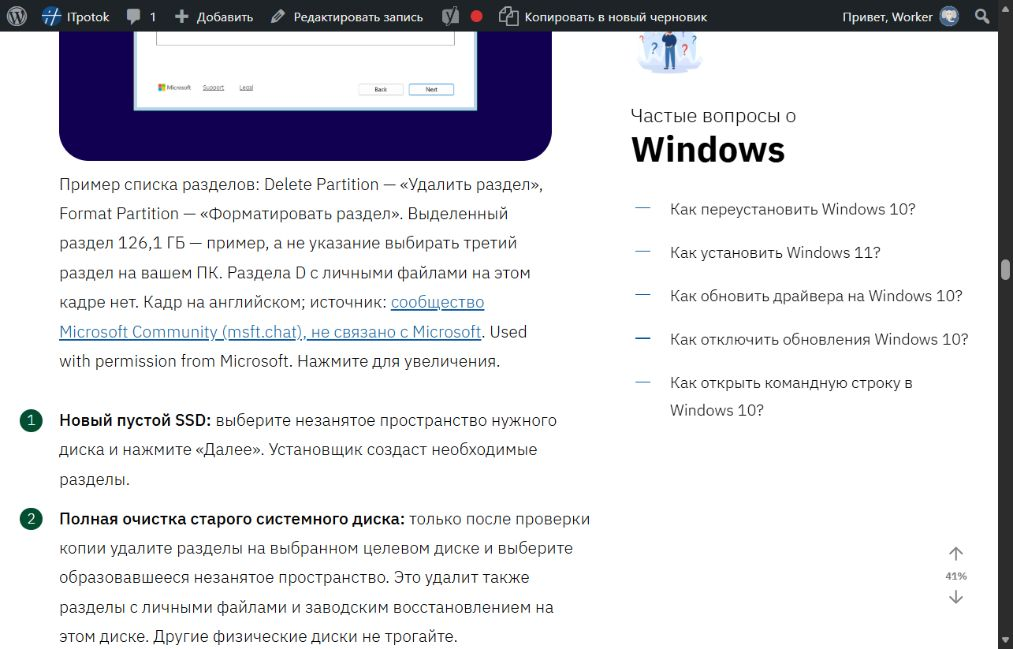
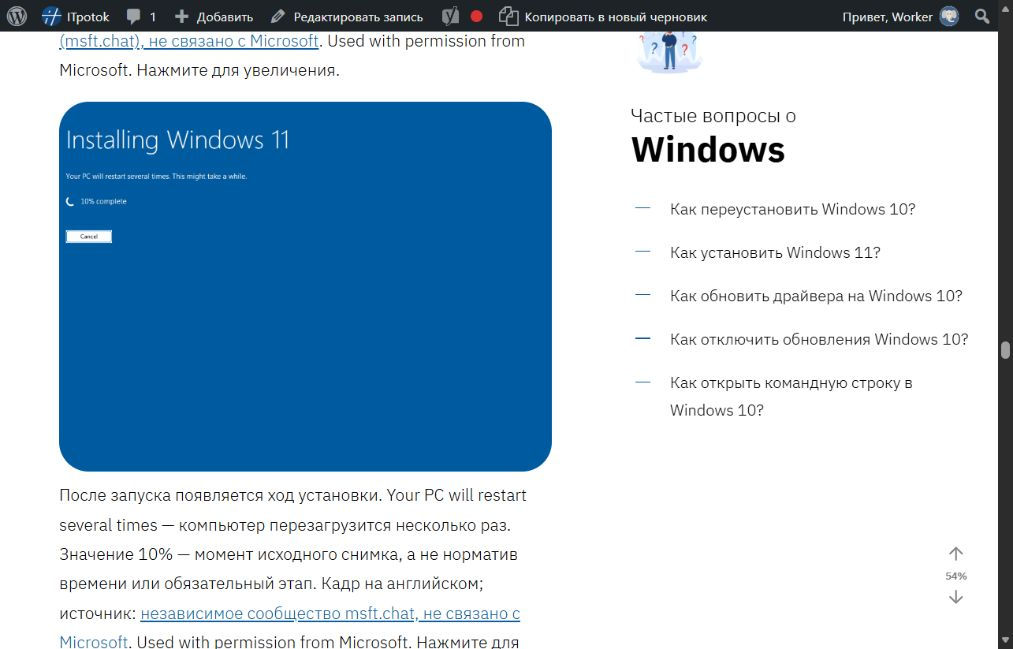
Expand Windows 11 installation walkthrough through first desktop

diff --git a/install-windows-11/article.html b/install-windows-11/article.html
@@ -27,25 +27,31 @@
 </ol>
 <p>Microsoft описывает подготовку носителя в <a href="https://support.microsoft.com/en-us/windows/deployment/install-upgrade/create-installation-media-for-windows" rel="nofollow">отдельной справке</a>. Если загрузка недоступна, не считайте это доказательством, что утилита обязательно заработает из другой сети. Попробуйте позже или подготовьте официальный носитель на другом доступном ПК. Не подменяйте образ случайной «сборкой» и не отключайте защиту ради её запуска.</p>
 <div id="clean" style="scroll-margin-top:90px;"></div><h2>Чистая установка с флешки на новый или очищаемый диск</h2>
-<h3>Загрузитесь с USB в режиме UEFI</h3>
+<p>Ниже — последовательность от запуска флешки до первого рабочего стола. Семь кадров показывают современный установщик на английском; рядом переведены нужные команды. В русскоязычном образе подписи будут русскими, а состав и порядок некоторых экранов зависят от версии носителя.</p>
+<h3>1. Запустите установщик с флешки</h3>
 <ol>
 <li>Подключите подготовленную флешку и выключите ПК.</li>
 <li>Включите компьютер и сразу несколько раз нажмите клавишу меню выбора загрузочного устройства — Boot Menu. Клавиша зависит от модели; проверьте руководство производителя. Часто используется F12 или Esc.</li>
 <li>Выберите флешку; если есть два варианта, используйте вариант UEFI. Если снова открылась старая Windows, загрузка с USB не состоялась.</li>
-<li>В установщике пройдите отдельные экраны языка и раскладки клавиатуры. В современном интерфейсе выберите установку Windows 11 и прочитайте предупреждение об удалении. В старом интерфейсе нужный сценарий может называться «Выборочная установка».</li>
+<li>Дождитесь окна установки Windows 11. Если появляется предложение нажать любую клавишу для загрузки с USB, сделайте это при первом запуске. Меню Boot Menu лишь выбирает устройство для этого запуска; его открытие само по себе не удаляет данные.</li>
 </ol>
+<h3>2. Выберите язык, формат времени и клавиатуру</h3>
+<ol><li>На первом экране проверьте «Устанавливаемый язык» и формат времени и денежных единиц. Для русской системы используйте официальный русскоязычный носитель. Если нужного языка нет в списке, не продолжайте с неподходящим образом: подготовьте нужный носитель.</li><li>Нажмите «Далее». На следующем экране выберите основную раскладку клавиатуры и снова нажмите «Далее». Дополнительную раскладку можно добавить при первоначальной настройке.</li></ol>
+<figure><a href="https://raw.githubusercontent.com/Microsoft-community/Community-website/master/src/wiki/img/installing-windows/chooselanguage.png" target="_blank" rel="nofollow noopener noreferrer"><img src="https://raw.githubusercontent.com/Microsoft-community/Community-website/master/src/wiki/img/installing-windows/chooselanguage.png" alt="Windows 11 Setup: Select language settings, списки языка установки и формата времени, кнопка Next" width="1024" height="768" style="max-width:100%;height:auto;" /></a><figcaption>Первый экран: Language to install — язык установки, Time and currency format — формат времени и денежных единиц. Next — «Далее». На кадре выбран английский язык; он не демонстрирует русский образ. Кадр на английском; источник: <a href="https://msft.chat/wiki/installing-windows" rel="nofollow">независимое сообщество msft.chat, не связано с Microsoft</a>. Used with permission from Microsoft. Нажмите для увеличения.</figcaption></figure>
+<h3>3. Выберите установку Windows 11</h3>
+<p>В современном мастере отметьте «Установить Windows 11». Прочитайте предупреждение и подтвердите согласие с удалением файлов, приложений и параметров только для выбранного вами сценария чистой установки. Затем нажмите «Далее». Пункт восстановления компьютера ведёт к инструментам восстановления, а не к этому процессу установки. В старом мастере встречаются кнопка «Установить» и позднее выбор «Выборочная: только установка Windows».</p>
 <figure><a href="https://support.microsoft.com/ru-ru/windows/media/installation-media-install-option.png" target="_blank" rel="nofollow noopener noreferrer"><img src="https://support.microsoft.com/ru-ru/windows/media/installation-media-install-option.png" alt="Англоязычный установщик Microsoft Windows 11: выбран Install Windows 11 и отмечено согласие с удалением файлов, приложений и параметров" width="712" height="557" style="max-width:100%;height:auto;" /></a><figcaption>Выбор установки с подтверждением удаления данных. Кадр Microsoft на английском: Install Windows 11 означает «Установить Windows 11». Источник: <a href="https://support.microsoft.com/ru-ru/windows/deployment/install-upgrade/reinstall-windows-with-the-installation-media" rel="nofollow">Microsoft Support</a>. Used with permission from Microsoft. Нажмите для увеличения.</figcaption></figure>
-<h3>Выберите редакцию Home или Pro и проверьте лицензию</h3>
+<h3>4. Укажите ключ и редакцию, примите условия</h3>
 <p>Если установщик спрашивает ключ, введите имеющийся ключ. При повторной установке той же редакции на устройстве с действующей цифровой лицензией можно выбрать «У меня нет ключа продукта». Это не даёт бесплатную лицензию новому компьютеру. Если ключ уже записан в прошивке, окно может не появиться.</p>
 <p>Если появился выбор редакции, отметьте ту, для которой у вас есть лицензия: Home и Pro не взаимозаменяемы при активации. Затем прочитайте условия лицензии и продолжите, если согласны. В зависимости от версии носителя порядок экранов может отличаться.</p>
 <figure><a href="https://raw.githubusercontent.com/Microsoft-community/Community-website/master/src/wiki/img/installing-windows/productkey.png" target="_blank" rel="nofollow noopener noreferrer"><img src="https://raw.githubusercontent.com/Microsoft-community/Community-website/master/src/wiki/img/installing-windows/productkey.png" alt="Установщик Windows 11: пустое поле ключа продукта и ссылка I don’t have a product key внизу слева" width="1024" height="768" style="max-width:100%;height:auto;" /></a><figcaption>Экран ключа: ссылка I don’t have a product key означает «У меня нет ключа продукта». Условия её использования описаны выше. Кадр на английском; источник: <a href="https://msft.chat/wiki/installing-windows" rel="nofollow">сообщество Microsoft Community (msft.chat), не связано с Microsoft</a>. Used with permission from Microsoft. Нажмите для увеличения.</figcaption></figure>
-<h3>Как выбрать диск и не удалить раздел с файлами</h3>
+<h3>5. Подготовьте место установки на нужном диске</h3>
 <p><strong>Перед удалением разделов определите физический диск.</strong> Сверьте его ёмкость и состав разделов с заранее записанными сведениями. Буквы C: и D: в установщике не являются надёжным ориентиром. Номер «Диск 0» тоже не доказывает, что перед вами нужный SSD. Если накопителей несколько и вы не уверены, отмените установку и уточните конфигурацию.</p>
 <figure><a href="https://raw.githubusercontent.com/Microsoft-community/Community-website/master/src/wiki/img/installing-windows/custompartitionmanager.png" target="_blank" rel="nofollow noopener noreferrer"><img src="https://raw.githubusercontent.com/Microsoft-community/Community-website/master/src/wiki/img/installing-windows/custompartitionmanager.png" alt="Установщик Windows 11: четыре раздела диска, выделен основной раздел 126,1 ГБ; команды Delete Partition и Format Partition" width="1024" height="768" style="max-width:100%;height:auto;" /></a><figcaption>Пример списка разделов: Delete Partition — «Удалить раздел», Format Partition — «Форматировать раздел». Выделенный раздел 126,1 ГБ — пример, а не указание выбирать третий раздел на вашем ПК. Раздела D с личными файлами на этом кадре нет. Кадр на английском; источник: <a href="https://msft.chat/wiki/installing-windows" rel="nofollow">сообщество Microsoft Community (msft.chat), не связано с Microsoft</a>. Used with permission from Microsoft. Нажмите для увеличения.</figcaption></figure>
 <ol>
 <li><strong>Новый пустой SSD:</strong> выберите незанятое пространство нужного диска и нажмите «Далее». Установщик создаст необходимые разделы.</li>
-<li><strong>Полная очистка старого системного диска:</strong> только после проверки копии удалите разделы на выбранном целевом диске и выберите образовавшееся незанятое пространство. Это удалит также разделы с личными файлами и заводским восстановлением на этом диске. Другие физические диски не трогайте.</li>
-<li>Проверьте итоговый экран и начните установку. После перезагрузок не запускайте установку с USB заново: выберите Windows Boot Manager внутреннего накопителя либо верните прежний порядок загрузки.</li>
+<li><strong>Полная очистка старого системного диска:</strong> только после проверки копии выделите первый раздел выбранного целевого диска, нажмите «Удалить раздел» и подтвердите предупреждение. Повторите для остальных разделов именно этого диска. В итоге должно остаться его незанятое пространство; выберите эту строку и нажмите «Далее». Это удалит также разделы с личными файлами и заводским восстановлением на этом диске. Другие физические диски не трогайте.</li>
+
 </ol>
 <figure><a href="https://raw.githubusercontent.com/Microsoft-community/Community-website/master/src/wiki/img/installing-windows/emptycustompartitionmanager.png" target="_blank" rel="nofollow noopener noreferrer"><img src="https://raw.githubusercontent.com/Microsoft-community/Community-website/master/src/wiki/img/installing-windows/emptycustompartitionmanager.png" alt="Установщик Windows 11: выбрано Disk 0 Unallocated Space объёмом 127 ГБ" width="1024" height="768" style="max-width:100%;height:auto;" /></a><figcaption>Так выглядит незанятое пространство: Unallocated Space — «Незанятое пространство». После полной очистки целевого диска выбирают его и нажимают Next («Далее»). Номер и объём на вашем ПК могут отличаться. Кадр на английском; источник: <a href="https://msft.chat/wiki/installing-windows" rel="nofollow">сообщество Microsoft Community (msft.chat), не связано с Microsoft</a>. Used with permission from Microsoft. Нажмите для увеличения.</figcaption></figure>
 <p><strong>Пример:</strong> на одном SSD находятся системный раздел C: и раздел D: с фотографиями. Если удалить все строки этого физического диска, исчезнут оба раздела. Если D: расположен на другом физическом накопителе, он не относится к очистке системного SSD. Именно поэтому сначала нужна карта дисков, а не ориентир по одной букве.</p>
@@ -57,14 +63,24 @@
 <li>Выберите подготовленный раздел Windows и продолжите. Если установщик не принимает его, требует изменить разметку или вы не можете уверенно различить разделы, остановитесь. Не переходите к удалению всех разделов ради обхода ошибки.</li>
 </ol>
 <p>Установка в старый раздел без форматирования — отдельный сценарий: поведение зависит от состояния диска и установщика. Папка <code>Windows.old</code>, даже если появилась, не сохраняет работоспособность старых приложений и не заменяет резервную копию. Для предсказуемой полной очистки используйте пустое пространство после удаления разделов целевого диска, как описано выше.</p>
+<h3>6. Проверьте итог и дождитесь установки</h3>
+<p>На экране готовности ещё раз прочитайте редакцию и выбранный режим сохранения. Для описанного сценария будет «Ничего не сохранять» (Keep nothing). Если вы хотели оставить программы, этот режим вам не подходит: вернитесь к способам переустановки из работающей Windows. Если всё верно, нажмите «Установить» (Install).</p>
+<p><strong>Удаление или форматирование разделов уже изменило диск.</strong> Возврат к предыдущему экрану и закрытие мастера не вернут стёртые файлы — даже если кнопку «Установить» вы ещё не нажали.</p>
 <figure><a href="https://raw.githubusercontent.com/Microsoft-community/Community-website/master/src/wiki/img/installing-windows/readytoinstall.png" target="_blank" rel="nofollow noopener noreferrer"><img src="https://raw.githubusercontent.com/Microsoft-community/Community-website/master/src/wiki/img/installing-windows/readytoinstall.png" alt="Итоговый экран Windows 11: Install Windows 11 Pro, Keep nothing и кнопка Install" width="1024" height="768" style="max-width:100%;height:auto;" /></a><figcaption>Перед запуском проверьте редакцию и режим: здесь Windows 11 Pro и Keep nothing («Ничего не сохранять»). Этот кадр показывает чистую установку, а не восстановление с сохранением приложений. Install — «Установить». Кадр на английском; источник: <a href="https://msft.chat/wiki/installing-windows" rel="nofollow">сообщество Microsoft Community (msft.chat), не связано с Microsoft</a>. Used with permission from Microsoft. Нажмите для увеличения.</figcaption></figure>
-<h3>Завершите первоначальную настройку</h3>
+<figure><a href="https://raw.githubusercontent.com/Microsoft-community/Community-website/master/src/wiki/img/installing-windows/installing.png" target="_blank" rel="nofollow noopener noreferrer"><img src="https://raw.githubusercontent.com/Microsoft-community/Community-website/master/src/wiki/img/installing-windows/installing.png" alt="Экран Installing Windows 11: выполнение 10 процентов, сообщение о нескольких перезагрузках" width="1024" height="768" style="max-width:100%;height:auto;" /></a><figcaption>После запуска появляется ход установки. Your PC will restart several times — компьютер перезагрузится несколько раз. Значение 10% — момент исходного снимка, а не норматив времени или обязательный этап. Кадр на английском; источник: <a href="https://msft.chat/wiki/installing-windows" rel="nofollow">независимое сообщество msft.chat, не связано с Microsoft</a>. Used with permission from Microsoft. Нажмите для увеличения.</figcaption></figure>
+<ol><li>Оставьте компьютер включённым и подключённым к питанию. Процент может меняться неравномерно; время зависит от накопителя, компьютера и обновлений. Не выключайте ПК, чтобы «ускорить» процесс.</li><li>Разрешите автоматические перезагрузки. После первого запуска с USB больше не нажимайте клавишу для повторной загрузки с флешки. Дальнейшая установка должна продолжиться с внутреннего накопителя.</li><li>Если снова появился первый экран языка установщика, не повторяйте удаление разделов. Перезапустите ПК и в Boot Menu выберите Windows Boot Manager внутреннего SSD. При необходимости верните загрузку с него на первое место по инструкции производителя.</li><li>Дождитесь экрана первоначальной настройки: выбора региона, клавиатуры или подключения к сети. Это означает, что вы перешли от установки файлов к настройке новой системы.</li></ol>
+<h3>7. Пройдите настройку до рабочего стола</h3>
+<p>Это отдельный мастер первого запуска (OOBE). По <a href="https://learn.microsoft.com/en-us/windows-hardware/customize/desktop/customize-oobe-in-windows-11" rel="nofollow">документации Microsoft</a>, экраны могут появляться в разном порядке, а часть — отсутствовать. Ориентируйтесь на вопрос текущего окна.</p>
 <ol>
-<li>Выберите свой регион и основную раскладку клавиатуры. Вторую раскладку добавьте при необходимости.</li>
-<li>Подключитесь к Wi-Fi или проводной сети. Для личной настройки Home и Pro подготовьте учётную запись Microsoft. Если сеть не определяется, используйте раздел ошибок ниже.</li>
-<li>Если предлагается восстановление из копии другого ПК, проверьте, какую копию выбираете. Для начала с чистыми настройками выбирайте настройку как нового устройства, если установщик предлагает такой вариант.</li>
-<li>Настройте способ входа и прочитайте параметры конфиденциальности. Дополнительные предложения сервисов выбирайте по своим потребностям.</li>
-<li>Дождитесь рабочего стола, затем выполните проверку в конце руководства. Окончание мастера ещё не подтверждает исправность всех устройств и активацию.</li>
+<li><strong>Регион.</strong> Выберите страну или регион, в котором используете компьютер, и подтвердите выбор. От этого зависят региональные форматы и доступность некоторых служб.</li>
+<li><strong>Клавиатура.</strong> Подтвердите основную раскладку. На вопрос о второй раскладке добавьте нужную или пропустите этот шаг. Язык интерфейса и раскладка — разные настройки.</li>
+<li><strong>Сеть.</strong> Для Wi-Fi выберите свою сеть, нажмите подключение и введите её пароль; для Ethernet подключите кабель. Это пароль сети, а не учётной записи Microsoft. Если сетей нет в списке, перейдите к разделу ошибок ниже. Windows может скачать обновления и снова перезагрузиться.</li>
+<li><strong>Имя и назначение устройства.</strong> Если предлагается назвать ПК, задайте понятное имя. На личном компьютере при выборе между личным использованием и работой или учёбой выбирайте личную настройку. Для корпоративного устройства следуйте правилам администратора.</li>
+<li><strong>Учётная запись.</strong> Для личной настройки Windows 11 Home и Pro подготовьте учётную запись Microsoft: войдите с её адресом и паролем либо создайте её через предложенный мастер. При включённой дополнительной проверке подтвердите вход доступным способом. Не путайте этот этап с вводом ключа продукта: это разные данные.</li>
+<li><strong>Восстановление копии.</strong> Если после входа предлагается восстановить настройки прежнего ПК, проверьте имя устройства и дату копии. Для начала с новыми настройками выберите настройку как нового устройства, если этот вариант доступен. Восстановление облачной копии не заменяет сохранённые отдельно локальные файлы.</li>
+<li><strong>Windows Hello.</strong> Создайте PIN для входа на этот компьютер. Если предлагаются отпечаток или распознавание лица, настройте их по желанию и возможностям устройства. PIN не является ключом активации Windows.</li>
+<li><strong>Конфиденциальность и предложения.</strong> Прочитайте каждый переключатель: расположение, диагностика и другие параметры. Выберите подходящие вам значения и подтвердите. На экранах OneDrive и дополнительных сервисов проверьте, что именно включаете; дополнительные подписки для самой установки не нужны.</li>
+<li><strong>Завершение.</strong> Дождитесь окончания подготовки и появления рабочего стола. Теперь можно открыть «Пуск» и «Параметры». После чистой установки прежние приложения нужно установить заново, а файлы вернуть из копии. Проверку активации, обновлений и устройств выполните по разделу в конце руководства.</li>
 </ol>
 <div id="repair-update" style="scroll-margin-top:90px;"></div><h2>Переустановка через Центр обновления: сохранить программы</h2>
 <p>Этот вариант восстанавливает текущую версию Windows 11 с сохранением приложений, документов и параметров. Он подходит, если система загружается, но есть проблемы с её компонентами или обновлениями.</p>
@@ -112,7 +128,7 @@
 <li>Проверьте Wi-Fi, звук, камеру и остальные нужные устройства. Недостающие драйверы берите у производителя конкретного ПК или компонента.</li>
 <li>Откройте несколько важных файлов и программ. После сброса или чистой установки восстановите файлы из копии и установите приложения заново. После восстановления проверьте именно ту ошибку, ради которой его выполняли.</li>
 </ol>
-<p><strong>Отмена до начала:</strong> закройте мастер или выберите отмену до финального подтверждения. После запуска не выключайте ПК ради отмены. Удалённые при чистой установке разделы и приложения после сброса штатная кнопка «Отменить» не возвращает: для полного возврата нужна заранее созданная резервная копия системы.</p>
+<p><strong>Отмена до начала:</strong> закройте мастер или выберите отмену до финального подтверждения. После запуска не выключайте ПК ради отмены. Если вы уже удалили или отформатировали разделы, закрытие мастера не отменит эти действия. Удалённые при чистой установке разделы и приложения после сброса штатная кнопка «Отменить» не возвращает: для полного возврата нужна заранее созданная резервная копия системы.</p>
 <p>После обновления до другой версии может быть доступна «Система» → «Восстановление» → «Назад». Обычно срок — 10 дней; требуются сохранённые файлы предыдущей установки. Это условная возможность после обновления, а не гарантия отката после чистой установки или сброса. Ограничения описаны в <a href="https://support.microsoft.com/en-us/windows/deployment/install-upgrade/go-back-to-the-previous-version-of-windows" rel="nofollow">справке Microsoft</a>.</p>
 <h2>Частые вопросы</h2>
 [webnavoz_faq id="11926"]

diff --git a/install-windows-11/README.md b/install-windows-11/README.md
@@ -10,7 +10,9 @@
 
 После выбора способа и подготовки основным маршрутом идёт USB-установка, затем восстановление через обновления, setup.exe и сброс. Расширены создание носителя, карта накопителей, выбор редакции, разбор C/D, сохранение соседнего раздела и первоначальная настройка. Фактчекинг и границы практической проверки — factcheck.md; редакционные решения — editorial.md.
 
-В черновике семь иллюстраций с alt, подписями и увеличением: два кадра Microsoft Support, четыре внешних кадра установщика из независимого сообщества msft.chat и собственный безопасный русский кадр windows-11-recovery-settings-20261002.png. Проверена фактическая загрузка всех четырёх новых кадров в предпросмотре и ссылки на оригиналы для увеличения. Сохранённое тело WordPress после повторного открытия совпадает с исходником. Собственный кадр подключён из рабочей ветки GitHub; перед публикацией предпочтительно перенести его в медиатеку сайта. Происхождение — illustrations.md.
+В черновике девять иллюстраций, из них семь показывают сам процесс установки: язык, режим, ключ, разделы, незанятое пространство, итог и ход установки. Два кадра Microsoft Support, шесть внешних кадров независимого сообщества msft.chat и собственный русский кадр восстановления. Все семь кадров установщика загрузились в предпросмотре; ссылки для увеличения ведут на оригиналы. Сохранённые тело и отрывок WordPress после повторного открытия совпадают с исходниками. Подписи честно обозначают английский интерфейс и внешний источник. Происхождение и условия — illustrations.md.
+
+Чистая установка расписана по семи этапам до рабочего стола. Добавлены конкретные действия при очистке диска, поведение после перезагрузок и подробная первоначальная настройка: регион, клавиатура, сеть, назначение устройства, аккаунт, копия, PIN и конфиденциальность. Уточнено, что отмена мастера не возвращает уже удалённые разделы. На экране 390×844 проверены масштабирование семи кадров и ссылка каждого на оригинал, перенос текста и отсутствие переполнения страницы (375 px). Это частичная проверка, не полный мобильный проход. draft-installation-screens-proof.png показывает новый экран хода установки в шаблоне сайта.
 
 Собственная обложка install-windows-11-cover-20261002.png готова и загружена в GitHub, но ещё не назначена в WordPress. Загрузка через расширение Edge требует «Разрешить доступ к URL-адресам файлов»; повторная попытка подтвердила блокировку. В черновике остаётся прежняя обложка скопированной статьи. Обрезка новой обложки темой не проверена.
 

diff --git a/install-windows-11/factcheck.md b/install-windows-11/factcheck.md
@@ -26,3 +26,9 @@
 [Управление дисками Microsoft](https://support.microsoft.com/en-us/windows/experience/storage-filemanagement/disk-management-in-windows) подтверждает запуск diskmgmt.msc и назначение инструмента. [Разметка установщика](https://learn.microsoft.com/en-us/windows-hardware/manufacture/desktop/windows-setup-installing-using-the-mbr-or-gpt-partition-style?view=windows-11) объясняет связь UEFI/GPT и удаление разделов при полной очистке; [типы разделов](https://learn.microsoft.com/en-ie/windows-hardware/manufacture/desktop/hard-drives-and-partitions?view=windows-11) — различие системного, MSR и раздела Windows.
 
 Маршрут сохранения соседнего раздела ограничен существующей подходящей разметкой; форматируется только точно установленный раздел Windows. Это редакционная инструкция, не отчёт о выполненной установке. При несовместимой разметке или неясном назначении разделов указана остановка. Практически проверено только открытие русской панели «Система → Восстановление» и её расположение кнопок; операции восстановления не запускались.
+
+## Расширение процесса установки, 02.10.2026
+
+Повторно сверена последовательность чистой установки с https://support.microsoft.com/en-us/windows/deployment/install-upgrade/reinstall-windows-with-the-installation-media : язык, клавиатура, установка, ключ и редакция при запросе, лицензия, диск, итоговое подтверждение, перезагрузки и первоначальная настройка. Версии интерфейса и набор экранов могут отличаться.
+
+Первоначальная настройка сверена с https://learn.microsoft.com/en-us/windows-hardware/customize/desktop/customize-oobe-in-windows-11 (обновлена 13.03.2026): регион, клавиатура, сеть, обновления, аккаунт, восстановление копии, Windows Hello, конфиденциальность, дополнительные предложения. Документация прямо допускает иной порядок и отсутствие части экранов; статья это оговаривает. Требование сети и аккаунта для Home/Pro personal сохраняется по ранее проверенной странице системных требований. Реальная установка и прохождение OOBE не выполнялись. Отмена после удаления/форматирования не обещает восстановления данных.

diff --git a/install-windows-11/illustrations.md b/install-windows-11/illustrations.md
@@ -27,3 +27,7 @@ windows-11-recovery-settings-20261002.png, 919×198: реальный русск
 Все четыре кадра осмотрены целиком: только интерфейс выпущенного Microsoft Windows 11, без людей, личных данных, стороннего содержимого или водяных знаков. Основание использования содержимого Microsoft — раздел Screenshots https://www.microsoft.com/en-us/legal/intellectualproperty/copyright/permissions. Скриншоты не изменены, не обрезаны, не переведены внутри изображения; размер адаптируется средствами HTML. Под каждым указан реальный источник и обязательная фраза Used with permission from Microsoft. Отдельная лицензия репозитория сообщества не обнаружена, поэтому его текст и иные материалы не копируются; внешние PNG в наш публичный репозиторий не включены.
 
 Подписи переводят нужные кнопки и объясняют пределы примера: номера и размеры дисков не универсальны; раздела D на кадре нет; Keep nothing показывает чистую установку. Эти кадры не являются нашей практической проверкой. selectusb.png из страницы загрузки отклонён: на нём Windows 10 Setup, подменять им Windows 11 нельзя.
+
+## Ещё два кадра процесса, 02.10.2026
+
+Добавлены chooselanguage.png и installing.png, 1024×768, из того же каталога источника https://github.com/Microsoft-community/Community-website/tree/master/src/wiki/img/installing-windows . Первый показывает язык и формат времени (не клавиатуру); второй — Installing Windows 11, 10% и сообщение о перезагрузках. Оба осмотрены целиком; персональных данных и стороннего содержимого нет. Дата съёмки и билд не установлены. Применяются описанные выше условия Microsoft Screenshots; активный источник и кредит включены в подписи. Файлы не изменены и не включены в наш GitHub; используются внешние оригиналы. Семь кадров установщика фактически загрузились в WordPress, все ссылки на оригиналы совпадают с src. Это иллюстрирование, а не выполненная нами установка.

diff --git a/install-windows-11/changes.md b/install-windows-11/changes.md
@@ -19,3 +19,7 @@
 ## Иллюстрирование установки
 
 Добавлены четыре внешних неизменённых кадра современного установщика: ключ продукта, список разделов, незанятое пространство, финальный экран. Они размещены рядом с соответствующими действиями; даны переводы кнопок, источники и увеличение. Кадр USB-мастера Windows 10 отклонён. Условия и происхождение сохранены в illustrations.md.
+
+## 02.10.2026 — подробный процесс установки
+
+По замечанию редактора расширен основной USB-сценарий до семи последовательных этапов. Добавлены два внешних кадра (язык и ход установки), всего семь кадров самого процесса. Подробно разобраны перезагрузки и девять действий первоначальной настройки до рабочего стола. Исправлено потенциально опасное впечатление, что отмена до кнопки Install возвращает удалённые разделы. Черновик 11926 сохранён; тело и отрывок сверены после повторного открытия. Проверены загрузка семи кадров, их ссылки и частично узкий экран. Публикация 11476 не изменялась.

diff --git a/install-windows-11/editorial.md b/install-windows-11/editorial.md
@@ -9,3 +9,5 @@
 Исходная версия 11476 зафиксирована в коммите f20d5d0 и отправлена в GitHub до подготовки нового текста. В рабочем дереве один текущий article.html; старый текст доступен через Git.
 
 Отрывок описывает пользу руководства. Быстрый ответ расположен один раз в теле. Таблица сравнивает задачи и сохранение данных. При проверке сайта обнаружено, что тема изменяет ID заголовков, добавляя -2; якоря таблицы вынесены в отдельные div перед заголовками.
+
+Доработка 02.10.2026: основной процесс больше не объединён в короткий список подготовки. Семь последовательных этапов, семь кадров установщика и отдельные действия OOBE позволяют следовать от флешки до рабочего стола. Кадры на английском сопровождаются переводом нужных элементов; не подменены синтетическим русским интерфейсом. Контрольные точки: появление установщика, незанятое пространство правильного диска, режим итогового экрана, переход к OOBE, рабочий стол. Практическая установка не тестировалась.
